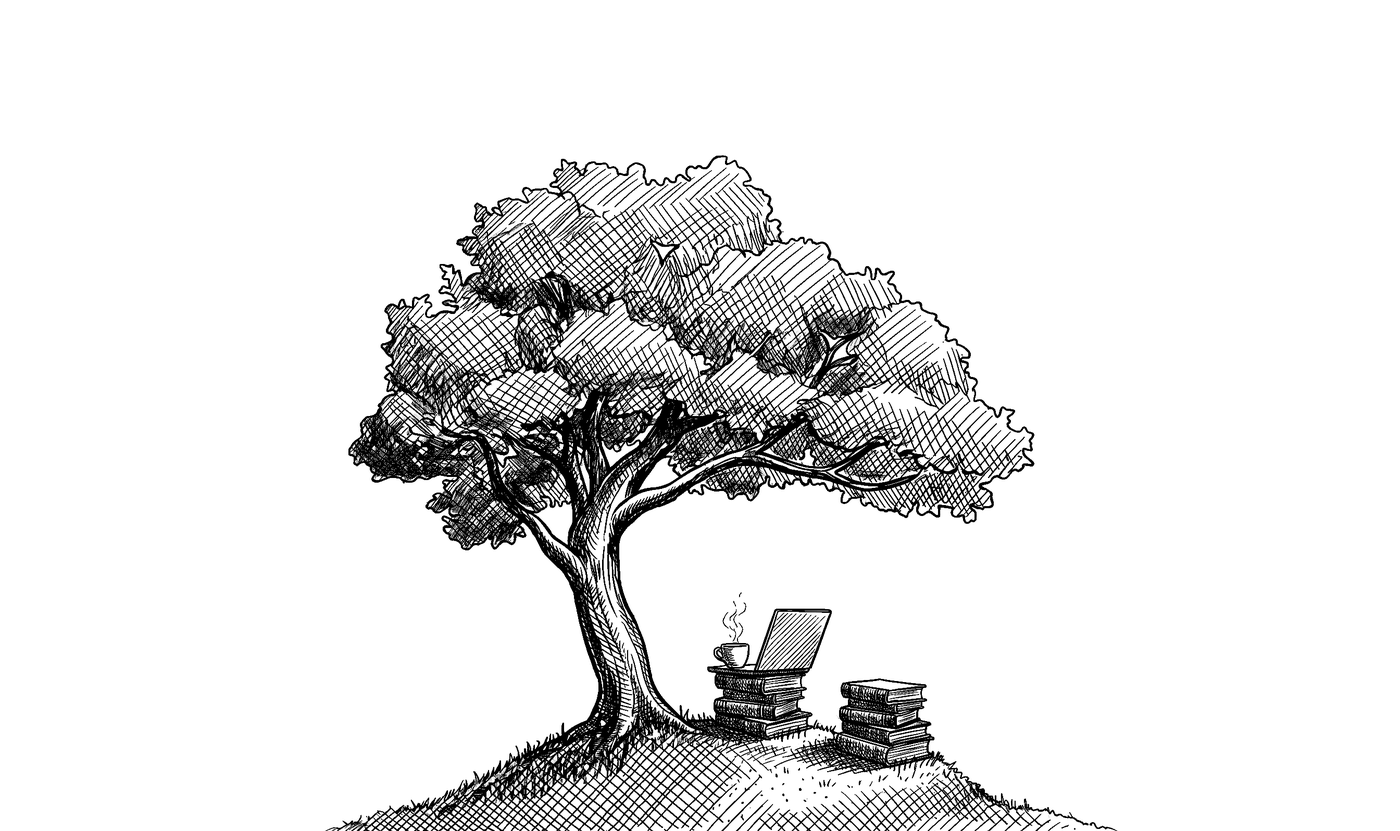
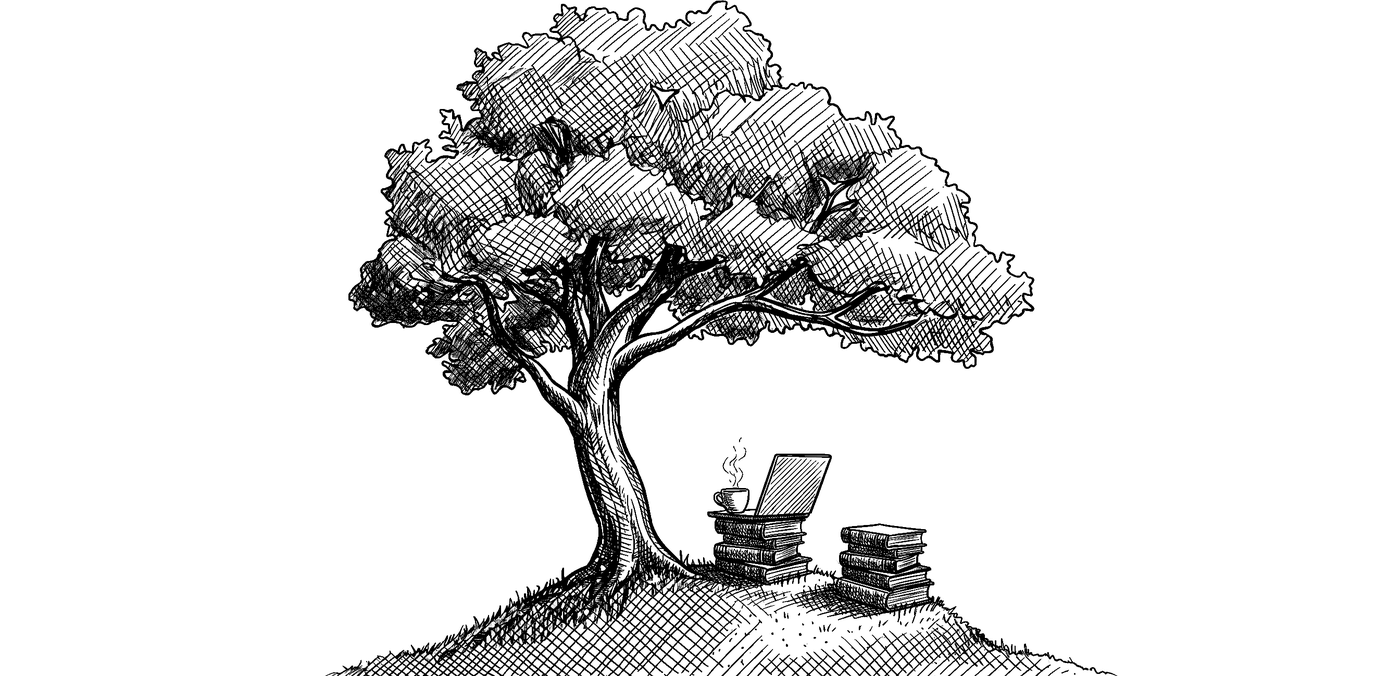
style: padroniza tamanho de paragrafo/titulo e reduz espaco da arvore no rodape
- corpo de artigos/paginas (.prose) usa --step-0-p (115% de --step-0)
- excertos da home padronizados em --step-0; titulos de card e mini
  (home-card__title, home-mini__title) sobem para --step-0-p para
  manter hierarquia acima do texto
- corta a margem transparente do topo de tree.webp pela metade do
  espacamento total visivel antes do rodape

Changed region(s): [[0.215, 0.0, 0.7986, 1.0]]

diff --git a/src/styles/main.css b/src/styles/main.css
@@ -55,6 +55,7 @@ a { color: inherit; }
   --step-2:  clamp(1.65rem, 1.44rem + 1.05vw, 2.2rem);
   --step-3:  clamp(2.0rem, 1.62rem + 1.9vw, 3rem);
   --step-4:  clamp(2.45rem, 1.86rem + 2.95vw, 4.1rem);
+  --step-0-p: calc(var(--step-0) * 1.15); /* body-copy size: matches the 115% step of the font-size selector */
 
   --leading: 1.72;
   --leading-tight: 1.18;
@@ -396,13 +397,13 @@ a:hover { text-decoration-color: currentColor; }
   margin-bottom: 0.4rem;
 }
 .home-card__title {
-  font-family: var(--font-serif); font-weight: 500; font-size: 1.22rem;
+  font-family: var(--font-serif); font-weight: 500; font-size: var(--step-0-p);
   letter-spacing: -0.01em; line-height: 1.3; margin-bottom: 0.45em;
 }
 .home-card__title a { color: var(--ink); text-decoration: none; }
 .home-card__title a:hover { color: var(--accent); }
 .home-card__excerpt {
-  font-family: var(--font-serif); color: var(--ink-soft); font-size: 0.95rem;
+  font-family: var(--font-serif); color: var(--ink-soft); font-size: var(--step-0);
   line-height: 1.6; margin-bottom: 0.5rem;
   display: -webkit-box; -webkit-line-clamp: 3; -webkit-box-orient: vertical; overflow: hidden;
 }
@@ -456,7 +457,7 @@ a:hover { text-decoration-color: currentColor; }
 .home-row__title a { color: var(--ink); text-decoration: none; transition: color 0.2s ease; }
 .home-row:hover .home-row__title a { color: var(--accent); }
 .home-row__excerpt {
-  font-family: var(--font-serif); font-size: 0.95rem; color: var(--ink-soft);
+  font-family: var(--font-serif); font-size: var(--step-0); color: var(--ink-soft);
   line-height: 1.6; max-width: 42rem; margin: 0;
 }
 
@@ -510,7 +511,7 @@ a:hover { text-decoration-color: currentColor; }
 .home-feature__title a { color: var(--ink); text-decoration: none; }
 .home-feature:hover .home-feature__title a { color: var(--accent); }
 .home-feature__excerpt {
-  font-family: var(--font-serif); font-size: 1rem; color: var(--ink-soft);
+  font-family: var(--font-serif); font-size: var(--step-0); color: var(--ink-soft);
   line-height: 1.65; margin-bottom: 1.4rem;
 }
 .home-feature__foot {
@@ -545,7 +546,7 @@ a:hover { text-decoration-color: currentColor; }
   letter-spacing: 0.14em; color: var(--olive-subtle); margin-bottom: 0.3rem;
 }
 .home-mini__title {
-  font-family: var(--font-display); font-weight: 400; font-size: 1.05rem; line-height: 1.25;
+  font-family: var(--font-display); font-weight: 400; font-size: var(--step-0-p); line-height: 1.25;
 }
 .home-mini__title a { color: var(--ink); text-decoration: none; }
 .home-mini:hover .home-mini__title a { color: var(--accent); }
@@ -575,7 +576,7 @@ a:hover { text-decoration-color: currentColor; }
 .home-panorama__title a { color: var(--ink); text-decoration: none; }
 .home-panorama__title a:hover { color: var(--accent); }
 .home-panorama__excerpt {
-  font-family: var(--font-serif); font-size: 1.05rem; color: var(--ink-soft);
+  font-family: var(--font-serif); font-size: var(--step-0); color: var(--ink-soft);
   line-height: 1.7; margin-bottom: 1.4rem;
 }
 .home-panorama__link {
@@ -934,7 +935,7 @@ a:hover { text-decoration-color: currentColor; }
 }
 
 /* The prose column — the heart of the reading experience. */
-.prose { max-width: var(--measure); margin-inline: auto; }
+.prose { max-width: var(--measure); margin-inline: auto; font-size: var(--step-0-p); }
 .prose > * + * { margin-top: 1.35em; }
 .prose > :first-child { margin-top: 0; }
 .prose > :last-child { margin-bottom: 0; }
@@ -1520,7 +1521,7 @@ mark.hl[data-color="green"]  { background: #b9e0a6; }
   .home-divider__glyph { font-size: 0.85rem; }
   .site-footer__top { grid-template-columns: repeat(3, 1fr); gap: 1.8rem 1rem; }
   .site-footer__brand-col { grid-column: 1 / -1; max-width: none; }
-  .is-post .prose { font-size: 1.2rem; line-height: 1.75; }
+  .is-post .prose { font-size: 1.38rem; line-height: 1.75; }
   /* Byline + date + reading time and the share buttons share one row:
      short date, tighter type and smaller circles keep it under 351px. */
   .post-meta__date { display: none; }
